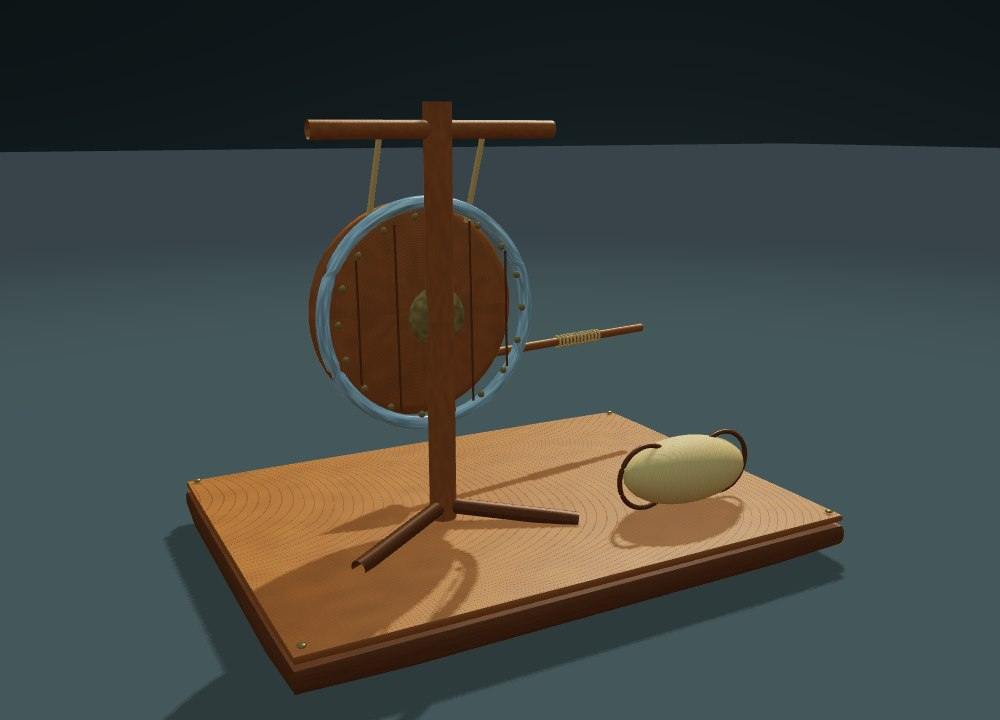
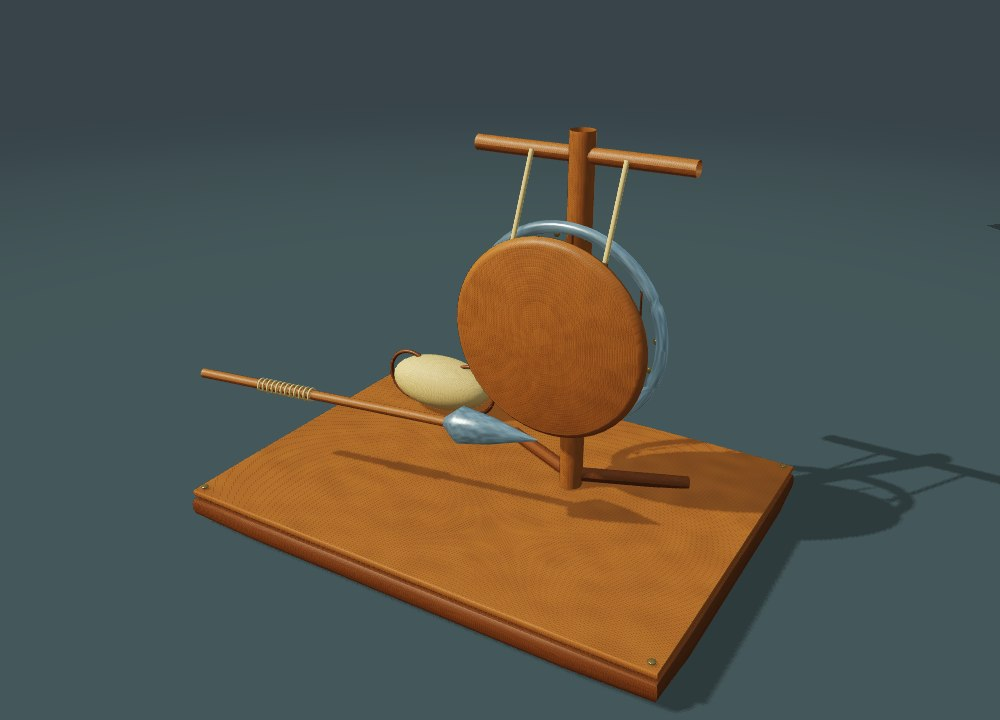
Publish verified chapter models, previews and consolidated OceanBond page

diff --git a/assets/oceanbond-chapters/page.css b/assets/oceanbond-chapters/page.css
@@ -1,3 +1,6 @@
 :root{--bg:#0b171d;--panel:#11242a;--line:#294047;--ink:#f2ead9;--muted:#b0c4c3;--gold:#e1bb78;--mint:#9dccc2;--max:1200px;color-scheme:dark}*{box-sizing:border-box}html{scroll-behavior:smooth;scroll-padding-top:90px}body{margin:0;background:var(--bg);color:var(--ink);font-family:system-ui,-apple-system,"Segoe UI",sans-serif;-webkit-font-smoothing:antialiased}a{color:inherit;text-decoration:none}button{font:inherit}button,a{touch-action:manipulation}button:focus-visible,a:focus-visible{outline:2px solid var(--gold);outline-offset:5px}button{cursor:pointer}img{max-width:100%;display:block}p{margin:0;line-height:1.8}h1,h2,h3{margin:0;font-weight:400}::selection{background:#dabc7a;color:#112027}.wrap{width:min(var(--max),calc(100% - 72px));margin:auto}.skip{position:fixed;top:-100px;left:15px;background:var(--ink);color:var(--bg);padding:15px;z-index:100}.skip:focus{top:15px}.topbar{border-bottom:1px solid var(--line);height:80px;display:flex;align-items:center;justify-content:space-between;gap:20px}.brand{display:flex;gap:12px;align-items:center;font-weight:650;font-size:13px;letter-spacing:.13em}.brand img{width:30px;height:30px}.top-links{display:flex;gap:28px;font-size:12px;color:var(--muted)}.top-links a:hover{color:var(--ink)}.dev-badge{font-size:9px;letter-spacing:.15em;border:1px solid #3c5554;border-radius:30px;padding:8px 12px;color:#c1d5c9;white-space:nowrap}.dev-badge:before{content:"";width:5px;height:5px;background:#bddcb9;display:inline-block;border-radius:50%;margin-right:8px}.hero{position:relative;isolation:isolate;overflow:hidden;background:radial-gradient(ellipse at 76% 10%,#20404485,transparent 62%)}.hero:after{content:"";position:absolute;right:-120px;top:70px;width:650px;height:650px;border:1px solid #8bafaa10;box-shadow:0 0 0 60px #92b3ad06,0 0 0 120px #92b3ad04;border-radius:50%;transform:rotateX(55deg);z-index:-1}.hero-inner{padding:84px 0 72px;display:grid;grid-template-columns:1.25fr .75fr;gap:100px;align-items:end}.eyebrow{font-size:10px;letter-spacing:.23em;text-transform:uppercase;color:var(--gold);font-weight:600}.hero h1{font-family:Georgia,"Times New Roman",serif;font-size:clamp(58px,7.4vw,105px);letter-spacing:-.065em;line-height:.99;margin:23px 0}.hero h1 em{color:#accec5;font-weight:400}.hero-intro{font-size:15px;max-width:440px;color:var(--muted);margin-top:25px}.hero-small{font-size:10px;letter-spacing:.07em;color:#7f9c9f;margin-top:24px}.island-loop{border-left:1px solid #426160;padding-left:30px;margin-bottom:5px}.island-loop h2{font-size:10px;letter-spacing:.18em;color:var(--gold);margin-bottom:20px}.island-loop p{font:normal 28px/1.7 Georgia,serif;color:#c7d2c9}.island-loop p span{color:#628a89;margin:0 6px}.island-loop small{display:block;margin-top:18px;color:#86a4a5;font-size:11px;line-height:1.7}.chapter-nav-shell{position:sticky;top:0;z-index:15;background:#0b171deb;backdrop-filter:blur(16px);border-block:1px solid var(--line)}.chapter-nav{display:flex;justify-content:space-between;gap:22px;overflow:auto;scrollbar-width:thin;padding:20px 0}.chapter-nav a{display:flex;align-items:center;gap:10px;font-size:11px;color:#9eb8b8;white-space:nowrap}.chapter-nav a span{font-family:Georgia,serif;color:#628a8c;font-size:12px}.chapter-nav a[aria-current=true],.chapter-nav a:hover{color:#f3dfb6}.chapter-nav a[aria-current=true] span{color:#d8b981}.chapter{padding:76px 0;border-bottom:1px solid var(--line);display:grid;grid-template-columns:.75fr 1.25fr;gap:66px;align-items:center;scroll-margin-top:76px}.chapter:nth-of-type(even){grid-template-columns:1.25fr .75fr}.chapter:nth-of-type(even) .chapter-copy{order:2}.chapter-copy h2{font:normal clamp(36px,4.0vw,52px)/1.09 Georgia,serif;letter-spacing:-.042em;margin:22px 0}.chapter-copy h2 em{color:#acd0c4;font-weight:400}.chapter-copy>p:not(.eyebrow){font-size:14px;color:#adc3c1;max-width:370px}.chapter-copy .model-caption{margin-top:23px;font-size:10px!important;color:#7f9fa1!important;line-height:1.7!important;border-top:1px solid #263f44;padding-top:15px}.pillars{display:flex;gap:9px;flex-wrap:wrap;margin-top:24px}.pillars span{border:1px solid #345052;color:#c4d4ca;border-radius:3px;padding:6px 9px;font-size:9px;letter-spacing:.06em}.model-stage{position:relative;min-width:0}.model-box{height:480px;border:1px solid #395154;background:#152b31;border-radius:12px;overflow:hidden;position:relative}.model-box iframe{position:absolute;inset:0;width:100%;height:100%;border:0;opacity:0;transition:opacity .35s}.model-box.is-ready iframe{opacity:1}.model-cover{height:100%;display:grid;place-items:center;position:absolute;inset:0}.model-cover img{width:100%;height:100%;object-fit:cover}.model-cover .placeholder{position:absolute;inset:auto 20px 22px;background:#0a202aca;padding:10px 14px;font-size:10px;border-radius:5px;color:#c9d9cf}.model-box.is-ready .model-cover{visibility:hidden}.model-bar{display:flex;justify-content:space-between;align-items:center;gap:15px;margin-top:12px;font-size:10px;color:#85a4a6}.model-bar a{color:#dbd8bc;border-bottom:1px solid #5d716e;padding-bottom:4px}.model-status{font-size:8px;letter-spacing:.12em}.model-status:before{content:"";display:inline-block;border-radius:50%;width:4px;height:4px;background:#a1c9b5;margin-right:7px}.development{padding:88px 0}.development-heading{display:flex;justify-content:space-between;align-items:end;gap:45px;margin-bottom:35px}.development h2{font:normal 44px/1.1 Georgia,serif;letter-spacing:-.04em;margin-top:18px}.development-heading>p{max-width:420px;font-size:13px;color:var(--muted)}.dev-grid{display:grid;grid-template-columns:repeat(3,1fr);border-block:1px solid var(--line);padding:30px 0;gap:36px}.dev-item small{font-size:9px;letter-spacing:.13em;color:#b4caad}.dev-item h3{font:normal 23px Georgia,serif;margin:15px 0}.dev-item p{font-size:12px;color:#9cb7b6}.honesty{font-size:11px;color:#809fa1;margin-top:25px;max-width:850px}.closing{padding:45px;background:#142a30;border:1px solid #355153;border-radius:12px;display:flex;justify-content:space-between;align-items:center;gap:30px;margin-bottom:65px}.closing h2{font:normal clamp(26px,3.2vw,39px) Georgia,serif;letter-spacing:-.03em}.closing p{font-size:12px;color:#abc2be;margin-top:10px}.button{display:inline-block;background:#e8d2a7;color:#14292f;padding:14px 20px;font-size:11px;border-radius:5px;white-space:nowrap;font-weight:600}.button:hover{background:#f2e1bd}.bottom{border-top:1px solid var(--line);padding:25px 0 35px;display:flex;justify-content:space-between;gap:20px;color:#7e999b;font-size:10px}.bottom div{display:flex;gap:23px}.noscript{padding:15px;font-size:13px;border:1px solid var(--line)}
 @media(min-width:1500px){.model-box{height:510px}}@media(max-width:1000px){.hero-inner{gap:45px}.chapter{gap:30px}.model-box{height:430px}.hero h1{font-size:73px}.chapter-copy h2{font-size:38px}.top-links{gap:18px}.wrap{width:calc(100% - 48px)}}@media(max-width:700px){html{scroll-padding-top:75px}.wrap{width:calc(100% - 32px)}.topbar{height:66px}.top-links{display:none}.dev-badge{font-size:8px}.hero-inner{display:block;padding:50px 0 40px}.hero h1{font-size:61px}.hero-intro{font-size:13px}.hero-small{font-size:9px;margin-top:18px}.island-loop{display:none}.chapter-nav{gap:24px;padding:17px 0}.chapter-nav a{font-size:10px;gap:6px}.chapter,.chapter:nth-of-type(even){grid-template-columns:1fr;gap:27px;padding:44px 0}.chapter:nth-of-type(even) .chapter-copy{order:0}.chapter-copy h2{font-size:39px;margin:16px 0}.chapter-copy>p:not(.eyebrow){max-width:none;font-size:13px}.chapter-copy .model-caption{margin-top:15px}.pillars{margin-top:18px}.model-box{height:420px;border-radius:8px}.model-bar{font-size:9px}.development{padding:55px 0}.development-heading{display:block}.development h2{font-size:35px}.development-heading>p{margin-top:20px}.dev-grid{grid-template-columns:1fr;gap:24px}.dev-item{padding-bottom:24px;border-bottom:1px solid var(--line)}.dev-item:last-child{border:0;padding:0}.closing{display:block;padding:27px;margin-bottom:35px}.closing .button{margin-top:24px}.bottom{flex-direction:column}.honesty{font-size:10px}.brand{font-size:11px}}
 @media(prefers-reduced-motion:reduce){html{scroll-behavior:auto}.model-box iframe{transition:none}}@media print{.chapter-nav-shell,.top-links,.model-bar{display:none}.chapter{break-inside:avoid}.model-box iframe{display:none}.model-cover{visibility:visible!important}.hero,.chapter,.development,.closing{background:white;color:#17282c}body{background:white;color:#17282c}.chapter p,.hero p,.development p{color:#374e53!important}.wrap{width:100%}}
+
+/* Fallback framing */
+.model-cover img{object-fit:contain}@media(max-width:700px){.model-box{height:430px}}

diff --git a/assets/oceanbond-chapters/viewer.css b/assets/oceanbond-chapters/viewer.css
@@ -1,1 +1,3 @@
 *{box-sizing:border-box}html,body{height:100%;margin:0;background:#12262d;color:#eee9db;font-family:system-ui,-apple-system,sans-serif;overflow:hidden}.experience{height:100%;min-height:280px;position:relative}canvas{display:block;width:100%;height:100%;touch-action:pan-y;cursor:grab;outline-offset:-4px}canvas:active{cursor:grabbing}header{position:absolute;inset:18px 20px auto;display:flex;justify-content:space-between;align-items:center;font-size:10px;letter-spacing:.12em;pointer-events:none;text-shadow:0 1px 8px #102630}header a{pointer-events:auto;font-size:17px;text-decoration:none;color:inherit}button,a{color:inherit}button{cursor:pointer;font:500 10px system-ui;min-height:36px}button,a:focus-visible{outline-offset:3px}button:focus-visible,a:focus-visible,canvas:focus-visible{outline:2px solid #efdaa6}.toolbar{position:absolute;bottom:36px;left:18px;right:18px;display:flex;gap:6px;align-items:center;flex-wrap:wrap}.toolbar button,.toolbar>a{border:1px solid #e8e6cf40;background:#112c38b8;border-radius:5px;padding:8px 12px;color:#fff5df;backdrop-filter:blur(8px);text-decoration:none;font-size:10px}.toolbar button:hover,.toolbar>a:hover{background:#355258}.toolbar [hidden],.loading[hidden],.error[hidden]{display:none}.interact-hint{position:absolute;right:20px;bottom:88px;font-size:9px;color:#cad7d0;pointer-events:none;text-shadow:0 1px 4px #123}footer{position:absolute;bottom:12px;left:20px;right:20px;display:flex;justify-content:space-between;gap:10px;font-size:7px;letter-spacing:.11em;color:#c8d5d0;pointer-events:none}.loading{position:absolute;inset:0;background:#162d33;display:flex;flex-direction:column;align-items:center;justify-content:center;gap:14px;z-index:10}.loading span{border:1px solid #d8c9a84a;border-top-color:#eddaae;width:28px;height:28px;border-radius:50%;animation:spin 1s linear infinite}.loading p{font-size:10px;letter-spacing:.22em;margin:0}.loading small{font-size:10px;color:#a8bbb9}.error{position:absolute;inset:10%;padding:22px;background:#162f36f5;border:1px solid #78958b;border-radius:10px;z-index:20}.error h1{font:24px Georgia}.error p,.error a{font-size:13px;line-height:1.7}.focus header,.focus footer,.focus .interact-hint{display:none}@keyframes spin{to{transform:rotate(360deg)}}@media(max-width:440px){.toolbar{left:12px;right:12px;gap:4px;bottom:33px}.toolbar button,.toolbar>a{padding:6px 8px;font-size:9px}.interact-hint{bottom:79px;right:12px;font-size:8px}header{inset:14px 14px auto;font-size:8px}footer{left:14px;right:14px;font-size:6px}}@media(prefers-reduced-motion:reduce){.loading span{animation:none}}
+/* Touch controls */
+@media(max-width:440px){.toolbar button,.toolbar>a{min-height:40px;display:inline-flex;align-items:center}}

diff --git a/assets/oceanbond-chapters/viewer.js b/assets/oceanbond-chapters/viewer.js
@@ -7,9 +7,9 @@ const reduced=matchMedia('(prefers-reduced-motion: reduce)');
 const query = new URLSearchParams(location.search);
 const catalogue = {
  farming:{label:'Farming · The growing plot',file:'models/farming.glb',target:[0,1.0,0],az:.55,el:.58,dist:8.3,sea:false},
- combat:{label:'Combat · The training ground',file:'models/combat.glb',target:[0,1.55,0],az:2.65,el:.24,dist:8.1,sea:false},
+ combat:{label:'Combat · The training ground',file:'models/combat.glb',target:[0,1.55,0],az:.55,el:.42,dist:8.7,sea:false},
  crafting:{label:'Crafting · The workbench',file:'models/crafting.glb',target:[0,1.4,0],az:.52,el:.42,dist:8.2,sea:false},
- settlement:{label:'Settlement · The first home',file:'models/settlement.glb',target:[0,1.65,0],az:.62,el:.31,dist:9.5,sea:false},
+ settlement:{label:'Settlement · The first home',file:'models/settlement.glb',target:[0,1.65,0],az:.62,el:.43,dist:9.5,sea:false},
  sailing:{label:'Sailing · The red sail',file:'../../oceanbond-raft/assets/red-sail-raft.glb',target:[-.4,2.8,0],az:.60,el:.16,dist:15.4,sea:true}
 };
 const kind = Object.hasOwn(catalogue,query.get('scene')) ? query.get('scene') : 'farming';
@@ -23,7 +23,7 @@ canvas.setAttribute('aria-label',config.label+'. Animated three-dimensional mode
 if(!config.sea)$('#environment').hidden=true;
 
 let gl;try{gl=canvas.getContext('webgl2',{alpha:false,antialias:true,powerPreference:'low-power'})}catch{}
-function fail(s){$('#loading').hidden=true;$('#error').hidden=false;$('#error-text').textContent=s}
+function fail(s){if(parent!==window&&location.origin!=='null')parent.postMessage({type:'ob-model-error',scene:kind},location.origin);$('#loading').hidden=true;$('#error').hidden=false;$('#error-text').textContent=s}
 if(!gl){fail('This interactive model needs WebGL 2. The downloadable model remains available.');return}
 const PI=Math.PI,TAU=PI*2,clamp=(v,a,b)=>Math.max(a,Math.min(b,v));
 const add=(a,b)=>a.map((v,i)=>v+b[i]),sub=(a,b)=>a.map((v,i)=>v-b[i]),dot=(a,b)=>a.reduce((s,v,i)=>s+v*b[i],0),cross=(a,b)=>[a[1]*b[2]-a[2]*b[1],a[2]*b[0]-a[0]*b[2],a[0]*b[1]-a[1]*b[0]],norm=a=>{let d=Math.hypot(...a)||1;return a.map(v=>v/d)};

diff --git a/assets/oceanbond-chapters/page.js b/assets/oceanbond-chapters/page.js
@@ -25,5 +25,6 @@ window.addEventListener('scroll',request,{passive:true});window.addEventListener
 window.addEventListener('message',event=>{if(event.origin!==location.origin||event.data?.type!=='ob-model-ready')return;for(const [panel,frame] of frames){if(frame.contentWindow===event.source){panel.classList.add('is-ready');announce(panel,'LIVE 3D · DRAG TO ROTATE');send(frame,panel===active)}}});
 document.addEventListener('visibilitychange',()=>{for(const [panel,frame] of frames)send(frame,!document.hidden&&panel===active);if(!document.hidden)request()});
 if(location.hash==='#red-sail-model')location.replace('#sailing');
+window.addEventListener('message',event=>{if(event.origin!==location.origin||event.data?.type!=='ob-model-error')return;for(const [panel,frame]of frames){if(frame.contentWindow===event.source){frame.hidden=true;panel.classList.remove('is-ready');announce(panel,'STILL PREVIEW · 3D UNAVAILABLE');panel.querySelector('.placeholder').textContent='Your browser could not start 3D. The model preview and chapter remain available.'}}});
 const year=document.querySelector('#year');if(year)year.textContent=new Date().getFullYear();request();
 })();

diff --git a/_build/raft/verify_live.py b/_build/raft/verify_live.py
@@ -32,7 +32,7 @@ def state_at(page, timestamp):
 
 try:
     html = get('oceanbond.html?check=' + str(int(time.time()))).decode()
-    assert 'id="red-sail-model"' in html, 'Raft section missing from OceanBond page'
+    assert 'id="sailing"' in html, 'Raft section missing from OceanBond page'
     asset = get('oceanbond-raft/assets/red-sail-raft.glb')
     checksum = hashlib.sha256(asset).hexdigest()
     report['checks']['model_bytes'] = len(asset)
